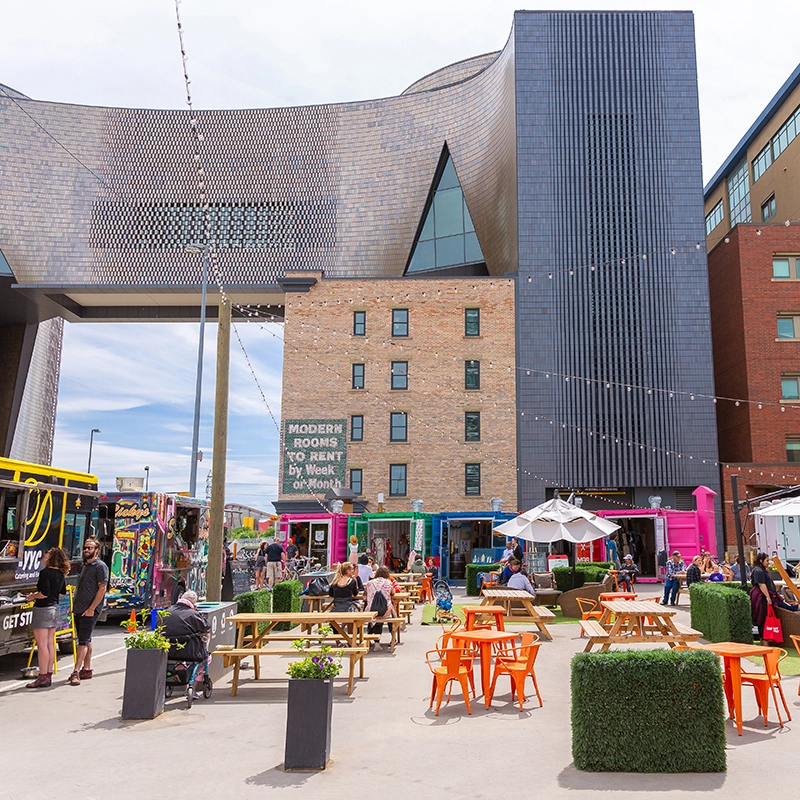
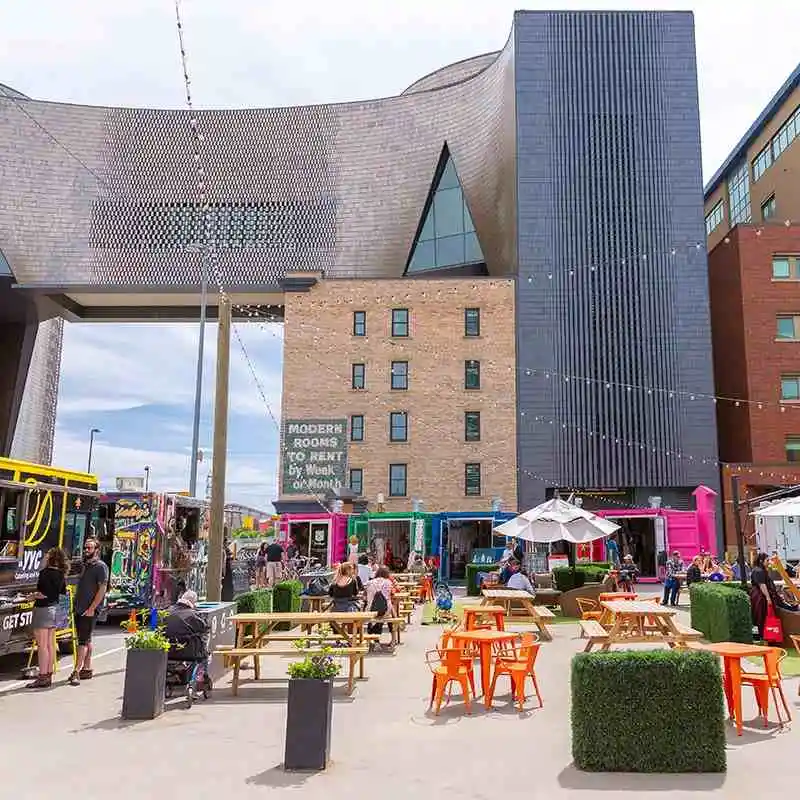
Updated images to lower the page weight

diff --git a/chamber/discover.html b/chamber/discover.html
@@ -76,9 +76,9 @@
                 </div>
             </div>
             <div class="discover-images">
+                <img src="./images/discover/east-village.webp" alt="East Village in Calgary" loading="lazy">
                 <img src="./images/discover/mountains.webp" alt="Banff national park" loading="lazy">
                 <img src="./images/discover/stampede.webp" alt="Calgary Stampede" loading="lazy">
-                <img src="./images/discover/nature.webp" alt="Calgary Parks" loading="lazy">
                 <img src="./images/discover/stephen-ave.webp" alt="Stephen Ave in Calgary" loading="lazy">
                 <img src="./images/discover/yyc-downtown-snow.webp" alt="Downtown view of Calgary in the snow"
                     loading="lazy">
